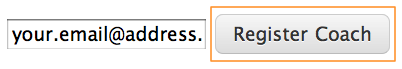
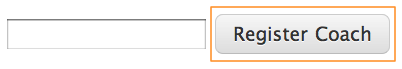
Empty class instructions now show your coach id in the screen shots of the register coach form to reinforce what students should be entering.
git-svn-id: http://khanacademy.googlecode.com/svn/trunk@1273 5cfed7ce-a931-7a28-2923-4f78740e45b1

Changed region(s): [[0.0299, 0.3768, 0.5075, 0.6667]]

diff --git a/empty_class_instructions.html b/empty_class_instructions.html
@@ -6,12 +6,14 @@
             <p>Log in and click on the <a href="/coaches">Add a Coach</a> link at the bottom of the page.</p>
             <img src="/images/add-a-coach.png" style="border: 1px solid #ddd;" />
         </li>
-        <li>
-            <p>Enter your Coach ID, which is: <strong>{{ coach_email|escape }}</strong>.</p>
+        <li class="enter-email">
+            <p>Enter your Coach ID. Your Coach ID is <strong>{{ coach_email|escape }}</strong>.</p>
+            <div class="coach-email">{{ coach_email|escape }}</div>
             <img src="/images/enter-coach-email.png" />
         </li>
-        <li>
+        <li class="click-register">
             <p>Click the <em>Register Coach</em> button.</p>
+            <div class="coach-email">{{ coach_email|escape }}</div>
             <img src="/images/click-register.png" />
         </li>
     </ol>

diff --git a/stylesheets/shared-package/default.css b/stylesheets/shared-package/default.css
@@ -2373,6 +2373,7 @@ div.arrow-right-shadow, div.arrow-left-shadow {
 #empty-class ol li {
     padding: 9px;
     background: #fff;
+    position: relative;
     border: 1px solid #ccc;
     margin-bottom: 18px;
     font-size: 16px;
@@ -2389,6 +2390,23 @@ div.arrow-right-shadow, div.arrow-left-shadow {
 #empty-class ol li img {
     display: block;
     margin: 0 auto 9px
+}
+
+#empty-class ol li div.coach-email {
+    position: absolute;
+    font-weight: bold;
+    font-size: 18px;
+    width: 195px;
+    overflow: hidden;
+    text-align: left;
+}
+#empty-class ol li.enter-email div.coach-email {
+    top: 86px;
+    left: 115px;
+}
+#empty-class ol li.click-register div.coach-email {
+    top: 87px;
+    left: 110px;
 }
 /* End No students page styles */
 
